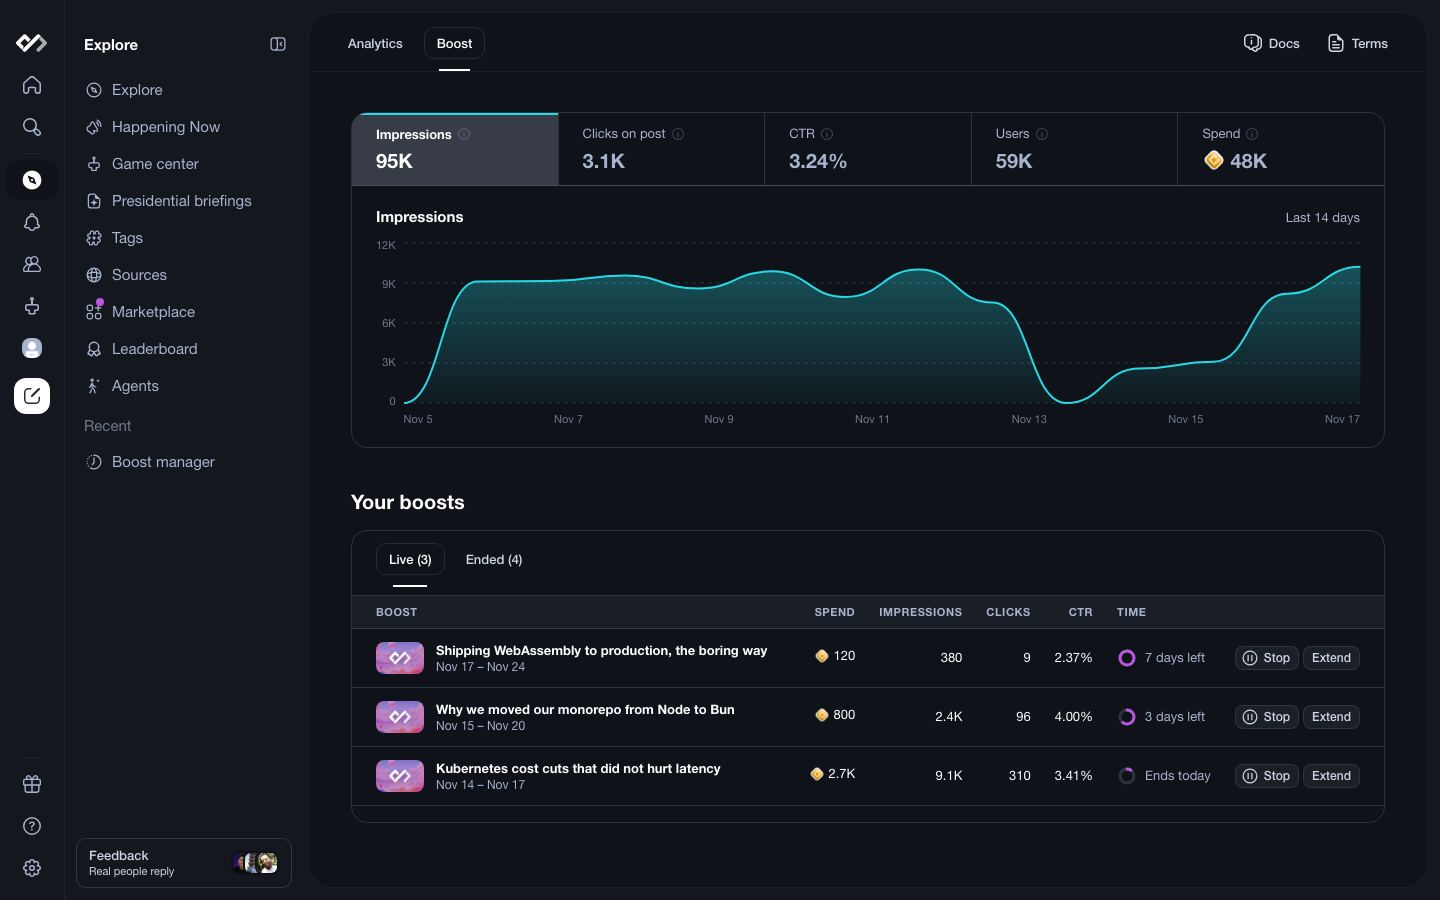
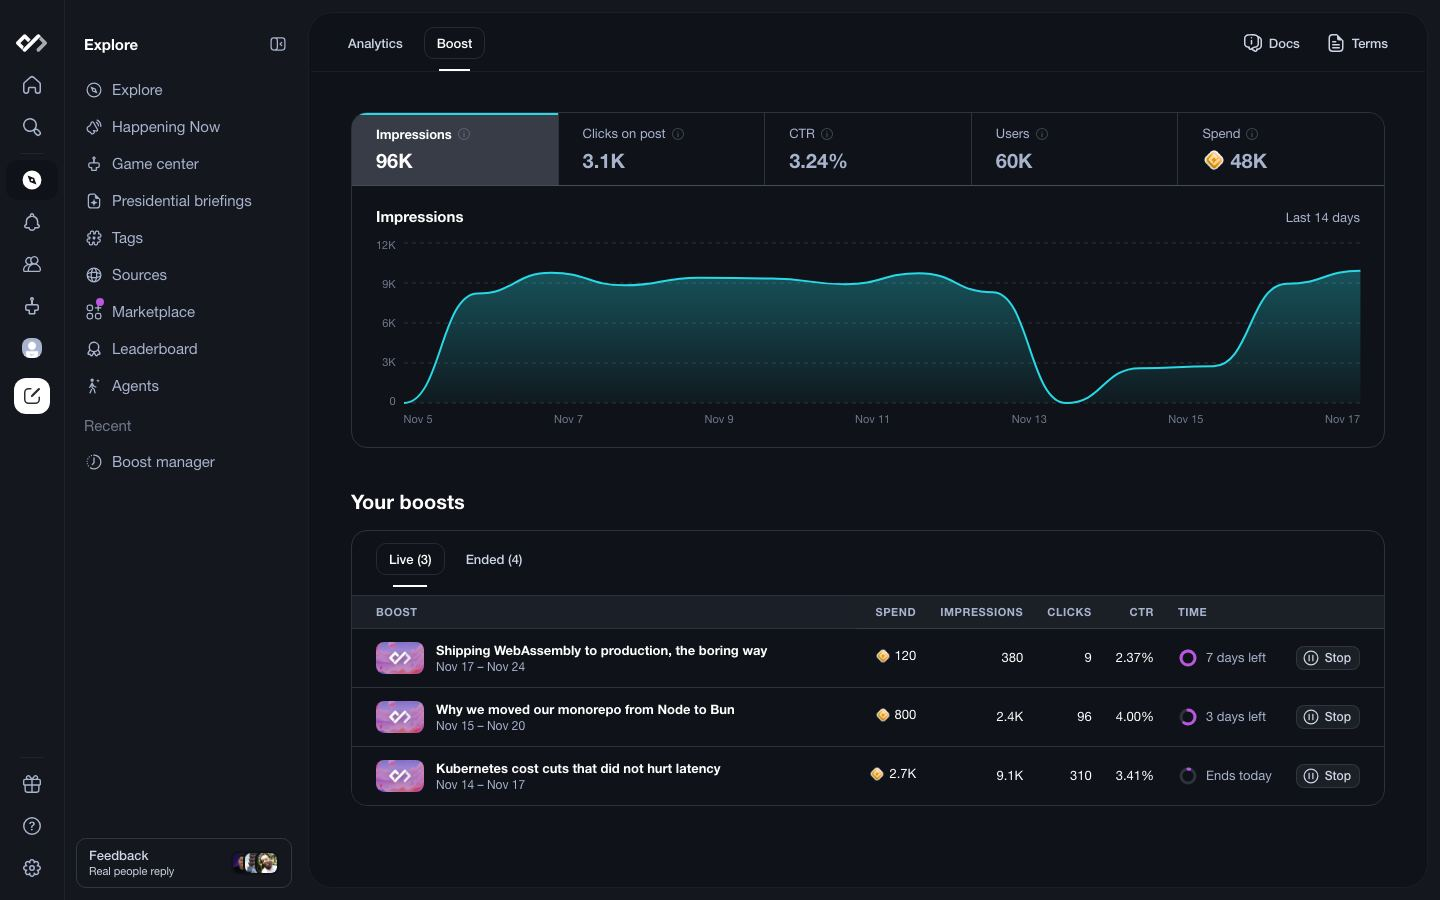
feat(storybook): Stop a boost as production does, drop Extend
Stop opens production's "Stop this boost?" prompt (stopBoostPromptOptions)
and, once confirmed, moves the boost to Ended as Stopped. The prompt opens
inside its All states frame. Production can't extend a boost, so Extend
goes.

diff --git a/packages/storybook/stories/cores-boost/redesign/after-boost/BoostsPage.tsx b/packages/storybook/stories/cores-boost/redesign/after-boost/BoostsPage.tsx
@@ -7,6 +7,7 @@ import {
 } from '@dailydotdev/shared/src/components/squads/layout/SquadDirectoryNavbar';
 import {
   Button,
+  ButtonColor,
   ButtonSize,
   ButtonVariant,
 } from '@dailydotdev/shared/src/components/buttons/Button';
@@ -17,6 +18,9 @@ import {
   PauseIcon,
 } from '@dailydotdev/shared/src/components/icons';
 import { Tooltip } from '@dailydotdev/shared/src/components/tooltip/Tooltip';
+import type { ModalProps } from '@dailydotdev/shared/src/components/modals/common/Modal';
+import { Modal } from '@dailydotdev/shared/src/components/modals/common/Modal';
+import { stopBoostPromptOptions } from '@dailydotdev/shared/src/features/boost/BoostedViewModal';
 import { IconSize } from '@dailydotdev/shared/src/components/Icon';
 import { Image } from '@dailydotdev/shared/src/components/image/Image';
 import Link from '@dailydotdev/shared/src/components/utilities/Link';
@@ -59,7 +63,6 @@ export enum BoostsTab {
 
 interface CampaignActionsProps {
   onStop?: (campaign: Campaign) => void;
-  onExtend?: (campaign: Campaign) => void;
   onBoostAgain?: (campaign: Campaign) => void;
 }
 
@@ -209,7 +212,6 @@ const columns = ['Boost', 'Spend', 'Impressions', 'Clicks', 'CTR', 'Time', ''];
 const CampaignTable = ({
   campaigns,
   onStop,
-  onExtend,
   onBoostAgain,
 }: CampaignActionsProps & {
   campaigns: Campaign[];
@@ -289,30 +291,21 @@ const CampaignTable = ({
             <td className="py-3 pl-3 pr-4 tablet:pr-6">
               <span className="flex justify-end gap-1">
                 {isActive ? (
-                  <>
-                    <Tooltip
-                      content={`Stops the boost now and refunds the ${unspentOf(
-                        campaign,
-                      ).toLocaleString('en-US')} Cores it has not spent`}
-                    >
-                      <Button
-                        variant={ButtonVariant.Float}
-                        size={ButtonSize.XSmall}
-                        icon={<PauseIcon />}
-                        className="text-text-secondary hover:text-accent-ketchup-default"
-                        onClick={() => onStop?.(campaign)}
-                      >
-                        Stop
-                      </Button>
-                    </Tooltip>
+                  <Tooltip
+                    content={`Stops the boost now and refunds the ${unspentOf(
+                      campaign,
+                    ).toLocaleString('en-US')} Cores it has not spent`}
+                  >
                     <Button
                       variant={ButtonVariant.Float}
                       size={ButtonSize.XSmall}
-                      onClick={() => onExtend?.(campaign)}
+                      icon={<PauseIcon />}
+                      className="text-text-secondary hover:text-accent-ketchup-default"
+                      onClick={() => onStop?.(campaign)}
                     >
-                      Extend
+                      Stop
                     </Button>
-                  </>
+                  </Tooltip>
                 ) : (
                   <Button
                     variant={ButtonVariant.Float}
@@ -330,3 +323,53 @@ const CampaignTable = ({
     </tbody>
   </table>
 );
+
+/** Production's "Stop this boost?" prompt (`stopBoostPromptOptions`), drawn
+ * as `PromptElement` draws it, so it can open inside a device frame. The two
+ * buttons share the row evenly */
+export const StopBoostPrompt = ({
+  onStop,
+  onRequestClose,
+  modalProps,
+}: {
+  onStop: () => void;
+  onRequestClose: () => void;
+  modalProps?: Pick<ModalProps, 'parentSelector' | 'bodyOpenClassName'>;
+}): ReactElement => {
+  const { title, description, okButton, cancelButton } = stopBoostPromptOptions;
+
+  return (
+    <Modal
+      {...modalProps}
+      isOpen
+      kind={Modal.Kind.FlexibleCenter}
+      size={Modal.Size.Small}
+      onRequestClose={onRequestClose}
+      isDrawerOnMobile
+    >
+      <Modal.Body>
+        <h1 className="text-center font-bold typo-title3">{title}</h1>
+        <div className="mb-6 mt-4 text-center text-text-secondary typo-callout">
+          {description}
+        </div>
+        <div className="flex flex-col items-center justify-center gap-4 self-stretch tablet:flex-row">
+          <Button
+            variant={cancelButton?.variant ?? ButtonVariant.Secondary}
+            className="w-full tablet:flex-1"
+            onClick={onRequestClose}
+          >
+            {cancelButton?.title ?? 'Cancel'}
+          </Button>
+          <Button
+            variant={ButtonVariant.Primary}
+            color={okButton?.color as ButtonColor}
+            className="w-full tablet:flex-1"
+            onClick={onStop}
+          >
+            {okButton?.title}
+          </Button>
+        </div>
+      </Modal.Body>
+    </Modal>
+  );
+};

diff --git a/packages/storybook/stories/cores-boost/redesign/after-boost/CombinedAnalytics.tsx b/packages/storybook/stories/cores-boost/redesign/after-boost/CombinedAnalytics.tsx
@@ -29,6 +29,7 @@ import { LeaderboardHeading } from '@dailydotdev/shared/src/features/leaderboard
 import { getPostPath } from '@dailydotdev/shared/src/lib/links';
 import { largeNumberFormat } from '@dailydotdev/shared/src/lib/numberFormat';
 import type { Campaign } from '@dailydotdev/shared/src/graphql/campaigns';
+import { CampaignState } from '@dailydotdev/shared/src/graphql/campaigns';
 import type { Post } from '@dailydotdev/shared/src/graphql/posts';
 import type { ModalProps } from '@dailydotdev/shared/src/components/modals/common/Modal';
 import { allCampaigns, lastBoostOf } from '../../flows/after-boost/fixtures';
@@ -44,7 +45,12 @@ import {
   stickyHeadClassName,
   tableScrollClassName,
 } from './BoostAnalytics';
-import { BoostsList, BoostsTab, DocsLinks } from './BoostsPage';
+import {
+  BoostsList,
+  BoostsTab,
+  DocsLinks,
+  StopBoostPrompt,
+} from './BoostsPage';
 import { BoostAgainModal } from './BoostAgainModal';
 
 // /analytics and Boost manager as one page with two header tabs, as Squads
@@ -441,7 +447,7 @@ interface CombinedAnalyticsProps {
 }
 
 export function CombinedAnalytics({
-  campaigns = allCampaigns,
+  campaigns: initialCampaigns = allCampaigns,
   initialTab = AnalyticsTab.Analytics,
   hasStartupsPlan = false,
   initialMetric,
@@ -451,6 +457,9 @@ export function CombinedAnalytics({
   modalProps,
 }: CombinedAnalyticsProps): ReactElement {
   const [tab, setTab] = useState(initialTab);
+  // Stopping a boost moves it to Ended, as production's cancel does
+  const [campaigns, setCampaigns] = useState(initialCampaigns);
+  const [stopping, setStopping] = useState<Campaign>();
   // An ended boost's Boost again opens the form, prefilled with its budget
   const [boostingAgain, setBoostingAgain] = useState<Campaign>();
   // Nothing boosted yet: organic alone, so no legend
@@ -528,6 +537,7 @@ export function CombinedAnalytics({
                 campaigns={campaigns}
                 initialTab={initialBoostsTab}
                 onBoostAgain={setBoostingAgain}
+                onStop={setStopping}
               />
             ) : (
               <PostsTable
@@ -544,6 +554,26 @@ export function CombinedAnalytics({
           </section>
         )}
       </PageWrapperLayout>
+      {stopping && (
+        <StopBoostPrompt
+          modalProps={modalProps}
+          onRequestClose={() => setStopping(undefined)}
+          onStop={() => {
+            setCampaigns((list) =>
+              list.map((item) =>
+                item.id === stopping.id
+                  ? {
+                      ...item,
+                      state: CampaignState.Cancelled,
+                      endedAt: new Date(),
+                    }
+                  : item,
+              ),
+            );
+            setStopping(undefined);
+          }}
+        />
+      )}
       {boostingAgain && (
         <BoostAgainModal
           {...modalProps}

diff --git a/packages/storybook/stories/cores-boost/redesign/after-boost/AllStates.tsx b/packages/storybook/stories/cores-boost/redesign/after-boost/AllStates.tsx
@@ -349,7 +349,7 @@ export const AllStatesPage = (): ReactElement => (
 
     <Section
       id="boost-widths"
-      lead="Only the boosts: Impressions, Clicks on post, CTR, Users and Spend over one blue chart, then Live and Ended. One table at every width, with Stop and Extend per row; on phones the boost's name stays in place while the figures and actions scroll beside it, as in the Ads Manager. Docs and Terms sit in the header."
+      lead="Only the boosts: Impressions, Clicks on post, CTR, Users and Spend over one blue chart, then Live and Ended. One table at every width: a live boost has Stop, which asks first as production does, and an ended one has Boost again; on phones the boost's name stays in place while the figures and actions scroll beside it, as in the Ads Manager. Docs and Terms sit in the header."
     >
       <Analytics device="laptopL" initialTab={AnalyticsTab.Boost} />
       <Row>
